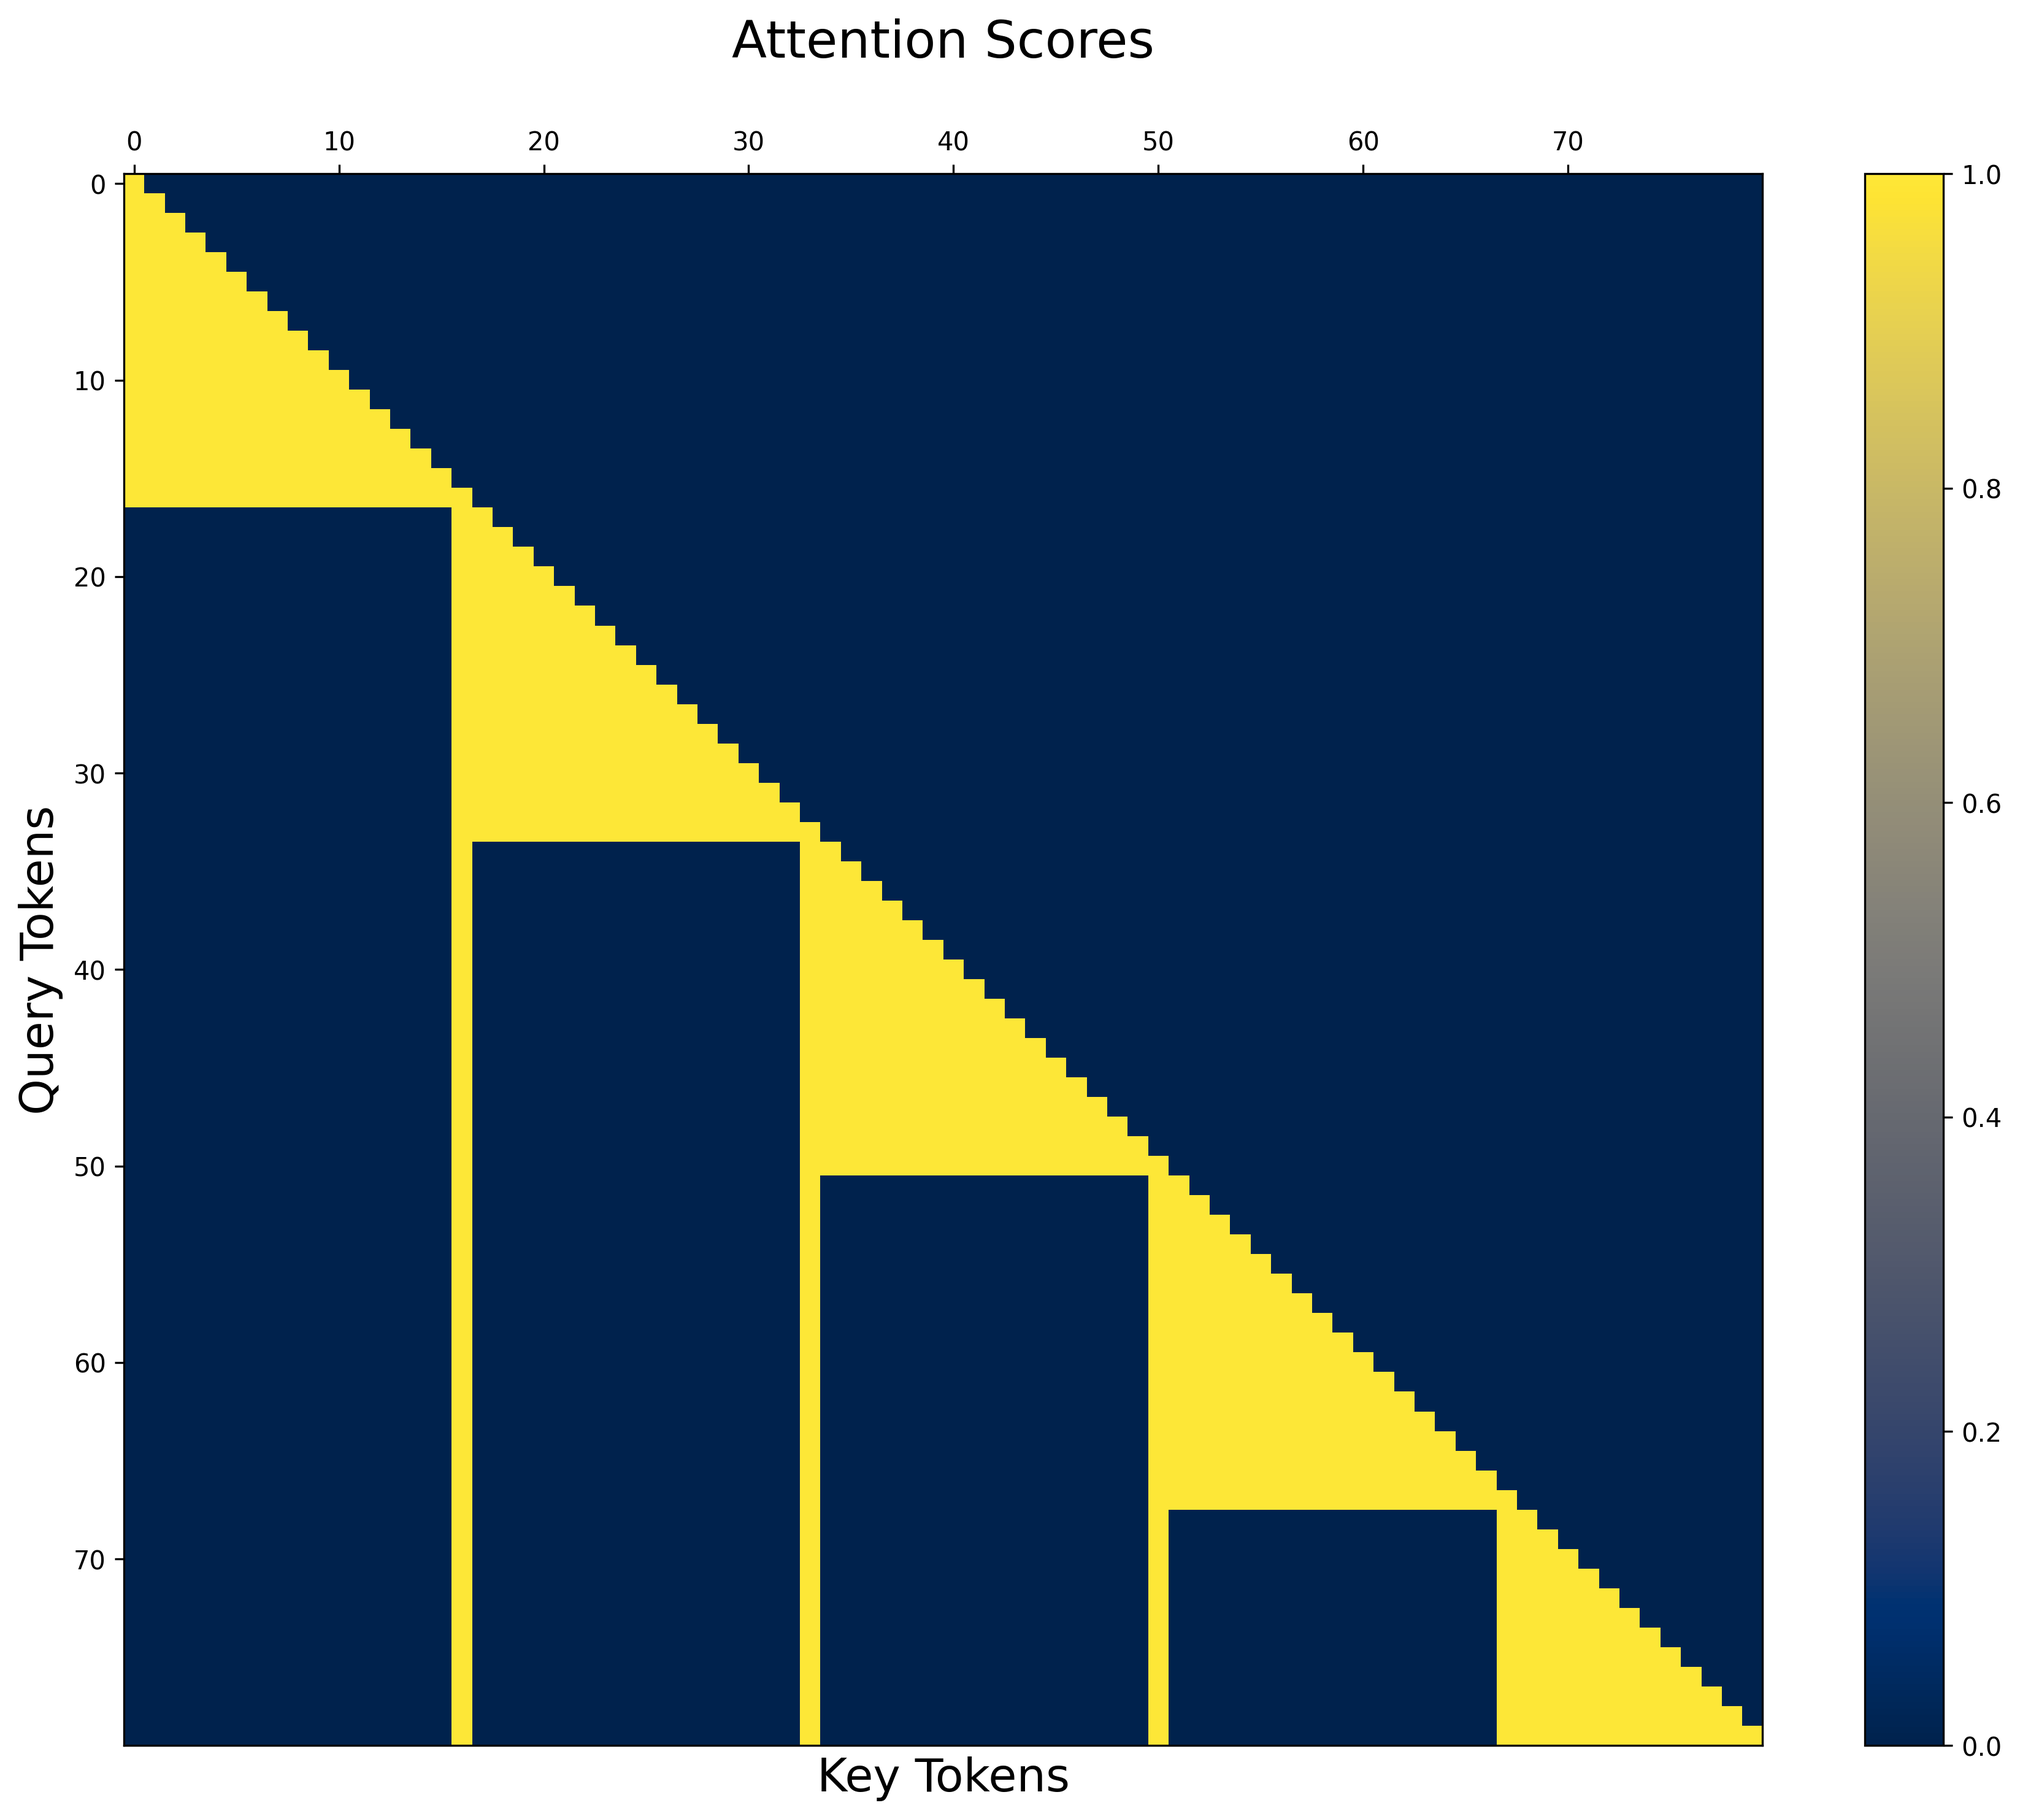
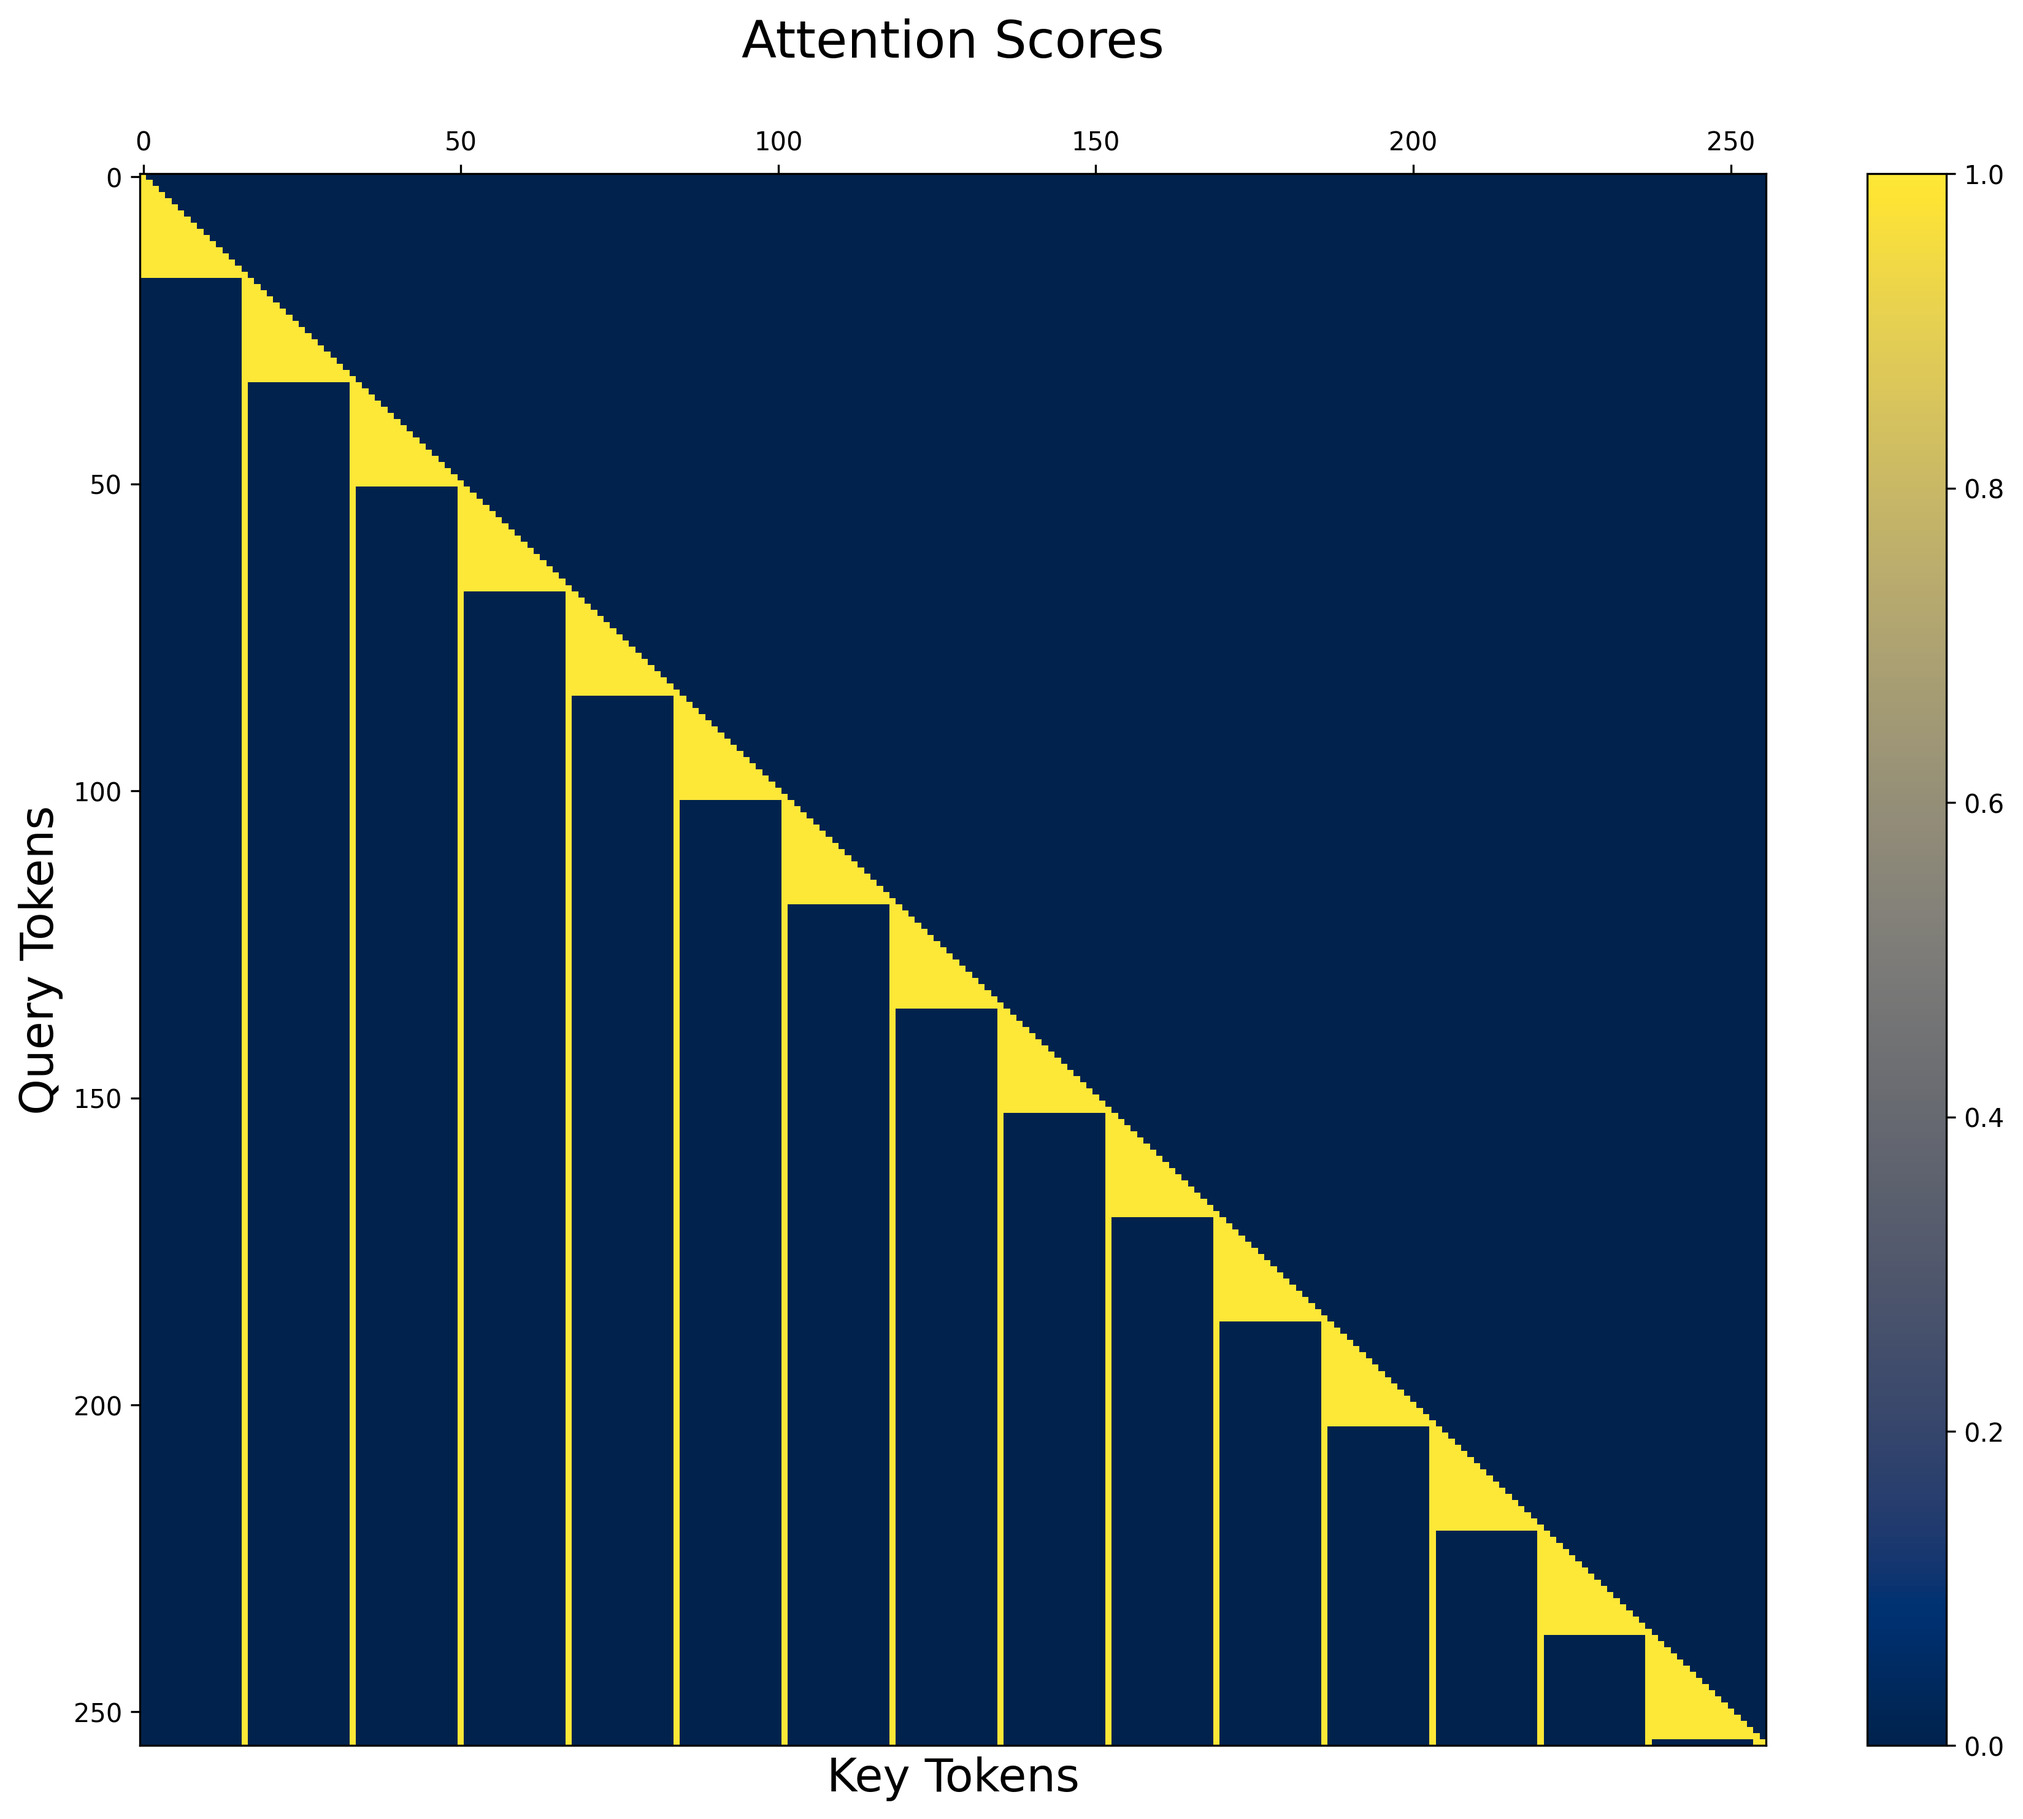
fix

diff --git a/src/modeling/transformer.py b/src/modeling/transformer.py
@@ -17,7 +17,7 @@ class ScaledRMSNorm(nn.Module):
     def __init__(self, dim: int, eps: float = 1e-6):
         super().__init__()
         self.eps = eps
-        self.weight = nn.Parameter(torch.zeros(1, dim))
+        self.weight = nn.Parameter(torch.zeros(dim))
 
     def _norm(self, x: torch.Tensor) -> torch.Tensor:
         return x * torch.rsqrt(x.pow(2).mean(-1, keepdim=True) + self.eps)
@@ -369,8 +369,10 @@ class MultiHeadSelfAttention(nn.Module):
                     prefill_length=q.size(2),
                 )
             else:
-                q = self.rotary(q, position=kv_cache.uncompressed_length)
-                k = self.rotary(k, position=kv_cache.uncompressed_length)
+                pos = kv_cache_args.get("position", kv_cache.uncompressed_length)
+                print(pos)
+                q = self.rotary(q, position=pos)
+                k = self.rotary(k, position=pos)
                 kv_cache.update(layer_idx, k, v, prefill=False)
                 k, v = kv_cache.get_kv(layer_idx)
         else:
@@ -489,7 +491,8 @@ class TransformerModel(nn.Module):
         beacon_stride: int = 0,
     ):
         super().__init__()
-        vocab_size = round_up_to_multiple(config.vocab_size + 1, n=16)
+        # vocab_size = round_up_to_multiple(config.vocab_size + 1, n=16)
+        vocab_size = config.vocab_size
         self.config = config
         self.vocab_size = vocab_size
 
@@ -510,24 +513,29 @@ class TransformerModel(nn.Module):
                 for _ in range(config.num_hidden_layers)
             ]
         )
-        self.lm_head = DTypeLinear(config.hidden_size, vocab_size, bias=False)
-        self.embed_tokens.weight = self.lm_head.weight
+        self.lm_head = DTypeLinear(
+            config.hidden_size, round_up_to_multiple(vocab_size + 1, n=16), bias=False
+        )
+        self.lm_head.weight = self.embed_tokens.weight  # tie weights
         self.beacon_stride = beacon_stride
         self.beacon_token_id = beacon_token_id
         self.norm = ScaledRMSNorm(config.hidden_size, eps=config.rms_norm_eps)
-
+        # self.resize_token_embeddings(vocab_size)
         print(self.embed_tokens.weight.mean(), self.embed_tokens.weight.std())
 
-    def resize_token_embeddings(self, new_num_tokens: int):
+    def resize_token_embeddings(self, n_vocab: int) -> None:
+        rounded_n_vocab = round_up_to_multiple(n_vocab + 1, n=16)
         old_weight = self.embed_tokens.weight
-        if new_num_tokens > self.vocab_size:
-            self.embed_tokens = nn.Embedding(new_num_tokens, self.config.hidden_size)
+        if rounded_n_vocab > self.vocab_size:
+            self.embed_tokens = nn.Embedding(
+                rounded_n_vocab, self.config.hidden_size, device=old_weight.device
+            )
             self.embed_tokens.weight.data[: self.vocab_size] = old_weight
-        elif new_num_tokens < self.vocab_size:
+        elif rounded_n_vocab < self.vocab_size:
             self.embed_tokens.weight.data = self.embed_tokens.weight.data[
-                :new_num_tokens
+                :rounded_n_vocab
             ]
-        self.vocab_size = new_num_tokens
+        self.vocab_size = rounded_n_vocab
 
     def forward(
         self,
@@ -588,106 +596,51 @@ class TransformerModel(nn.Module):
         self,
         input_ids: torch.Tensor,
         max_new_tokens: int,
-        use_beacon: bool = False,
+        use_beacon: bool = True,  # kept for compatibility; only controls mask type
     ):
-        assert input_ids.ndim == 1
-        kv_length = round_up_to_multiple(input_ids.size(0) + max_new_tokens, n=16)
-        kv_cache = KVCache(
-            num_hidden_layers=self.config.num_hidden_layers,
-            head_dim=self.config.head_dim,
-            num_key_value_heads=self.config.num_key_value_heads,
-            max_position_embeddings=kv_length,
-            beacon_stride=self.beacon_stride,
-            device=input_ids.device,
-            dtype=self.embed_tokens.weight.dtype,
-            use_beacon=use_beacon,
-        )
+        """
+        Greedy generation without KV cache.
+        Each step builds a full prefill-style block mask over the *entire* sequence
+        and runs a full forward pass to predict the next token.
+        """
+        assert input_ids.ndim == 1, "expect 1D tensor of token ids"
+        device = input_ids.device
+        decoded = input_ids.clone()
 
-        # Check if input already has beacon tokens
-        has_beacon = (input_ids == self.beacon_token_id).any() if use_beacon else False
-
-        pre_mask = make_block_mask(
-            input_ids=input_ids,
-            bos_token_id=self.config.bos_token_id,
-            beacon_token_id=self.beacon_token_id,
-            mask_type="beacon_causal_document" if has_beacon else "causal_document",
-            decoding=False,
-        )
-
-        logits, _ = self.forward(
-            input_ids, mask=pre_mask, kv_cache=kv_cache, kv_cache_args={"prefill": True}
-        )
-        next_tok = torch.argmax(logits[:, -1, :], dim=-1, keepdim=False)
-        decoded = torch.cat([input_ids, next_tok], dim=0)
-        cur = next_tok
-
-        print(f"First generated token: {next_tok.item()}")
-
-        # Check for early termination
-        if next_tok.item() == self.config.eos_token_id:
-            return decoded
-
-        for _ in range(max_new_tokens - 1):  # -1 because we already generated one token
-            if kv_cache.need_new_beacon():
-                old_len = kv_cache.current_length
-                # Generate beacon token
-                decode_mask = flex_attention.create_block_mask(
-                    mask_mod=lambda b, h, q_idx, kv_idx: old_len >= kv_idx,
-                    B=None,
-                    H=None,
-                    Q_LEN=1,
-                    KV_LEN=kv_length,
-                    device=cur.device,
+        with torch.inference_mode():
+            for _ in range(max_new_tokens):
+                # Decide mask type based on whether the sequence currently has beacon tokens
+                has_beacon = bool(
+                    use_beacon and (decoded == self.beacon_token_id).any()
                 )
 
-                beacon_tok = torch.tensor([self.beacon_token_id], device=cur.device)
+                block_mask = make_block_mask(
+                    input_ids=decoded,
+                    bos_token_id=self.config.bos_token_id,
+                    beacon_token_id=self.beacon_token_id,
+                    mask_type="beacon_causal_document"
+                    if has_beacon
+                    else "causal_document",
+                    decoding=False,  # full prefill-style attention
+                    return_block_mask=True,
+                )
+
+                # Full forward over current sequence; no kv_cache
                 logits, _ = self.forward(
-                    beacon_tok,
-                    mask=decode_mask,
-                    kv_cache=kv_cache,
-                    kv_cache_args={"prefill": False},
+                    decoded,
+                    labels=None,
+                    mask=block_mask,
+                    kv_cache=None,
+                    kv_cache_args=None,
                 )
 
-                # The beacon itself might not be added to output (depends on your design)
-                # If you want beacons in output: decoded = torch.cat([decoded, beacon_tok], dim=0)
+                # Greedy next token
+                next_tok = torch.argmax(logits[:, -1, :], dim=-1)  # shape [1]
+                decoded = torch.cat([decoded, next_tok], dim=0)
 
-                # Now generate the actual next token after beacon
-                next_tok = torch.argmax(logits[:, -1, :], dim=-1, keepdim=False)
-                decoded = torch.cat([decoded[:-1], next_tok], dim=0)
-                cur = next_tok
-
-                # Merge beacon in cache
-                kv_cache.merge_to_beacon()
-
-                # Check for EOS
-                if next_tok.item() == self.config.eos_token_id:
+                # Optional early stop on EOS
+                if int(next_tok.item()) == self.config.eos_token_id:
                     break
-                continue
-
-            # Regular generation (no beacon needed)
-            old_len = kv_cache.current_length
-            decode_mask = flex_attention.create_block_mask(
-                mask_mod=lambda b, h, q_idx, kv_idx: old_len >= kv_idx,
-                B=None,
-                H=None,
-                Q_LEN=1,
-                KV_LEN=kv_length,
-                device=cur.device,
-            )
-
-            logits, _ = self.forward(
-                cur,
-                mask=decode_mask,
-                kv_cache=kv_cache,
-                kv_cache_args={"prefill": False},
-            )
-            next_tok = torch.argmax(logits[:, -1, :], dim=-1, keepdim=False)
-            decoded = torch.cat([decoded, next_tok], dim=0)
-            cur = next_tok
-
-            # Check for EOS
-            # if next_tok.item() == self.config.eos_token_id:
-            #     break
 
         return decoded
 

diff --git a/train.py b/train.py
@@ -46,7 +46,7 @@ class TrainingConfig:
     train_data_pattern: str = Path("tokenized_data")
     arch_name: str = "gemma-270m"
     pretrained_tokenizer_name: str = "google/gemma-3-270m"
-    batch_size: int = 8*1024
+    batch_size: int = 256
     target_tokens: int = 100_000_000
     sample_every_n_steps: int = 50
     use_beacon: bool = True
@@ -157,9 +157,11 @@ def init_model(
 
         for k, v in state_dict.items():
             renamed_state_dict[k.replace("model.", "")] = v
-        model.load_state_dict(renamed_state_dict)
+        model.load_state_dict(renamed_state_dict, strict=False)
     except Exception as e:
         log_master(f"Load ckpt error: {e}", dist_cfg.is_master)
+
+    model.resize_token_embeddings(tokenizer.vocab_size)
 
     for m in model.modules():
         if isinstance(m, torch.nn.Embedding):
@@ -167,6 +169,8 @@ def init_model(
 
     for param in model.parameters():
         dist.broadcast(param.detach(), 0)
+
+    model.lm_head.weight = model.embed_tokens.weight
 
     # model = torch.compile(model, dynamic=False)
 
@@ -176,8 +180,10 @@ def init_model(
 def setup_optimizers(
     model: TransformerModel, cfg: TrainingConfig, tokenizer: AutoTokenizer
 ):
-    hidden_params = [p for p in model.layers.parameters()]
-    direct_params = [p for p in model.embed_tokens.parameters()]
+    hidden_params = [p for p in model.layers.parameters() if p.dim() >= 2]
+    direct_params = [p for p in model.embed_tokens.parameters()] + [
+        p for p in model.layers.parameters() if p.dim() < 2
+    ]
 
     adam_optimizer = DistAdam(
         direct_params,
@@ -195,6 +201,15 @@ def setup_optimizers(
 
     optimizers = [adam_optimizer, muon_optimizer]
 
+    # optimizers = [
+    #     torch.optim.AdamW(
+    #         model.parameters(),
+    #         lr=cfg.adam_lr,
+    #         betas=cfg.adam_betas,
+    #         eps=cfg.adam_eps,
+    #         weight_decay=cfg.adam_weight_decay,
+    #     )
+    # ]
     for opt in optimizers:
         for group in opt.param_groups:
             group["initial_lr"] = group["lr"]
@@ -211,7 +226,7 @@ def visualize_initial_sample(
     if not dist_cfg.is_master:
         return
 
-    sample = next(train_loader)[:80]
+    sample = next(train_loader)
     log_master(f"Sample IDS: sample.tolist()", dist_cfg.is_master)
     log_master(f"Sample text: {tokenizer.decode(sample.tolist())}", dist_cfg.is_master)
     log_master(
@@ -359,7 +374,7 @@ def main():
                 max_new_tokens=32,
                 use_beacon=cfg.use_beacon,
             )
-            sample_text = tokenizer.decode(sample_output[:80].cpu().tolist())
+            sample_text = tokenizer.decode(sample_output.cpu().tolist())
             original_text = tokenizer.decode(sample_ids[:80].tolist())
             targets[targets == -100] = tokenizer.cls_token_id
             label_text = tokenizer.decode(targets[:38].tolist())
@@ -379,6 +394,15 @@ def main():
                     )
                 }
             )
+            sample_output = model.generate(
+                tokenizer.encode("The capital of ", return_tensors="pt")[0].to(
+                    dist_cfg.device
+                ),
+                max_new_tokens=32,
+                use_beacon=cfg.use_beacon,
+            )
+            sample_text = tokenizer.decode(sample_output.cpu().tolist())
+            log_master(f"***2. Sample text: {sample_text}", dist_cfg.is_master)
 
 
 if __name__ == "__main__":
